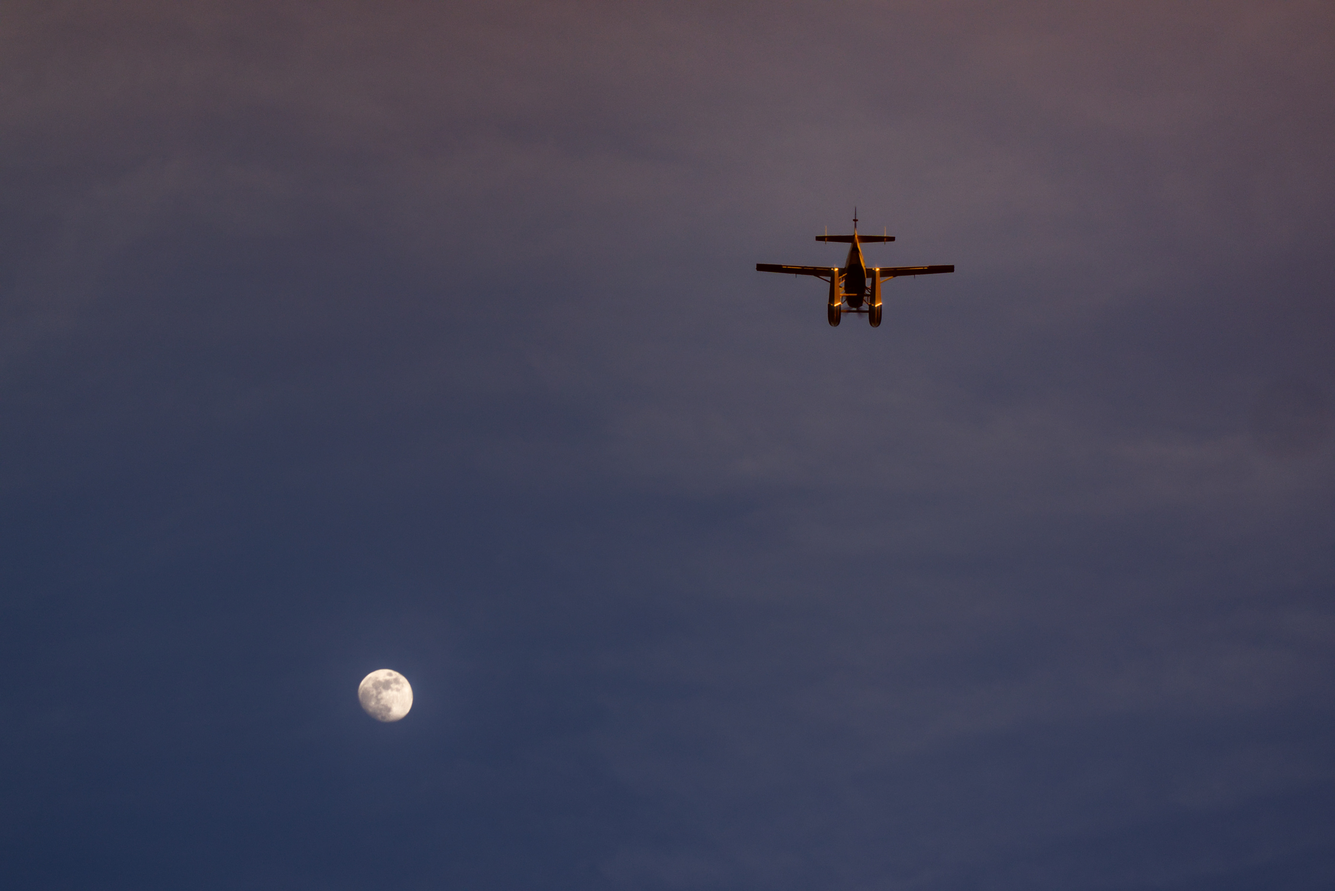
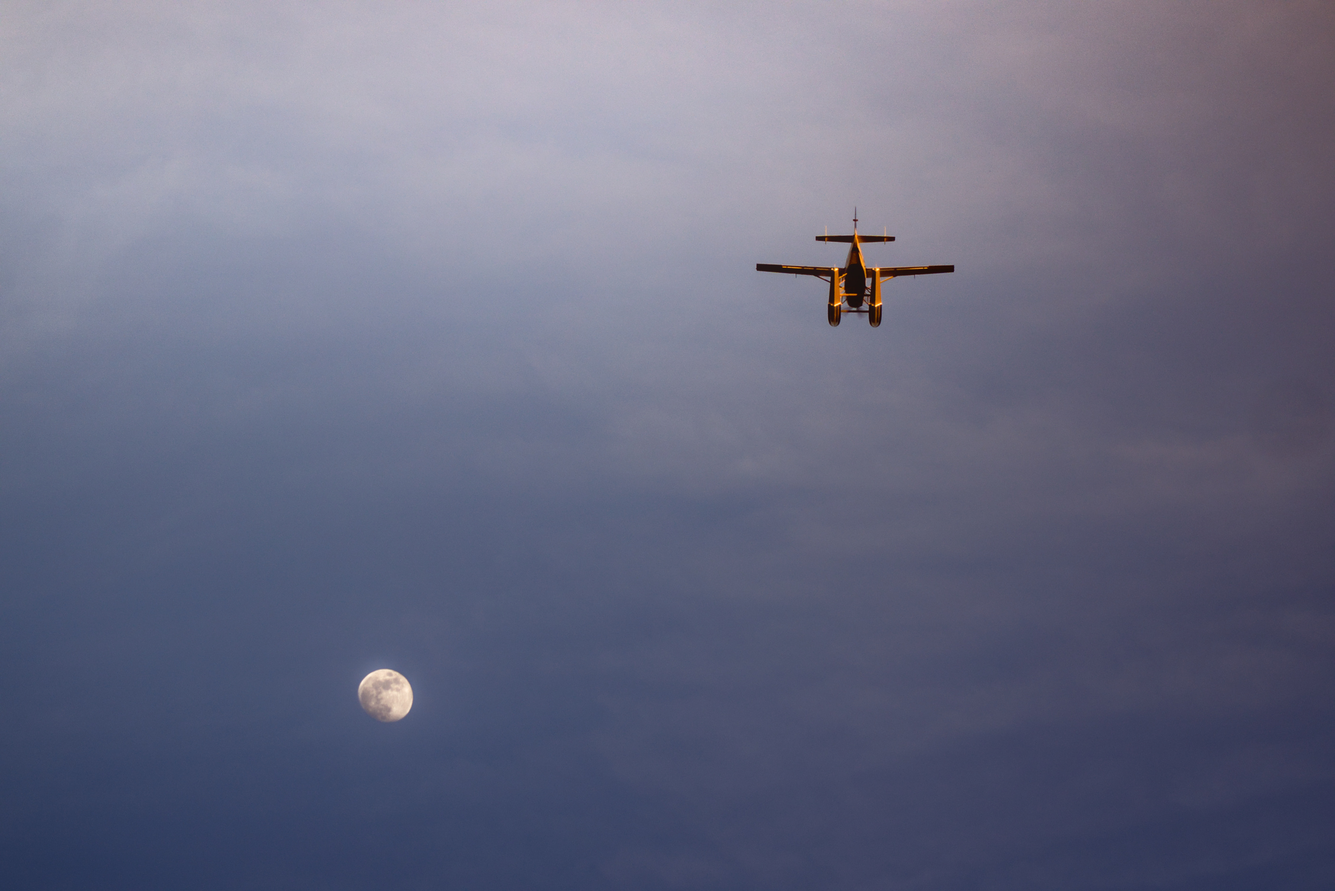
edit photo

diff --git a/app/components/PhotographyGrid.tsx b/app/components/PhotographyGrid.tsx
@@ -11,7 +11,7 @@ import "yet-another-react-lightbox/plugins/thumbnails.css";
 
 const PHOTOS: Photo[] = [
     { src: "/images/camera/AML06129.jpg", width: 4673, height: 3417, alt: "Photography shot AML05497" },
-    { src: "/images/camera/AML05832.jpg", width: 2505, height: 1548, alt: "Photography shot AML05832" },
+    { src: "/images/camera/AML05832.jpg", width: 2806, height: 1874, alt: "Photography shot AML05832" },
     { src: "/images/camera/AML05988.jpg", width: 4333, height: 2678, alt: "Photography shot AML05988" },
     { src: "/images/camera/AML06293_01.jpg", width: 5560, height: 3932, alt: "Photography shot AML05707_01" },
     { src: "/images/camera/AML06407.jpg", width: 6026, height: 4024, alt: "Photography shot AML05782" },
